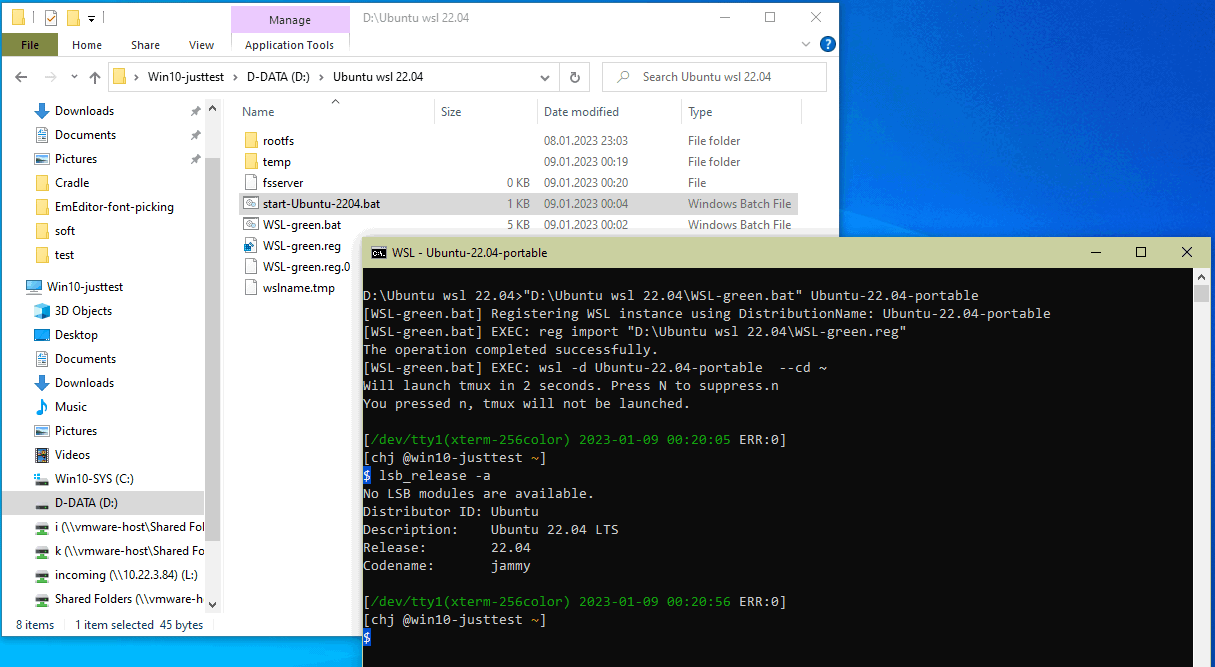
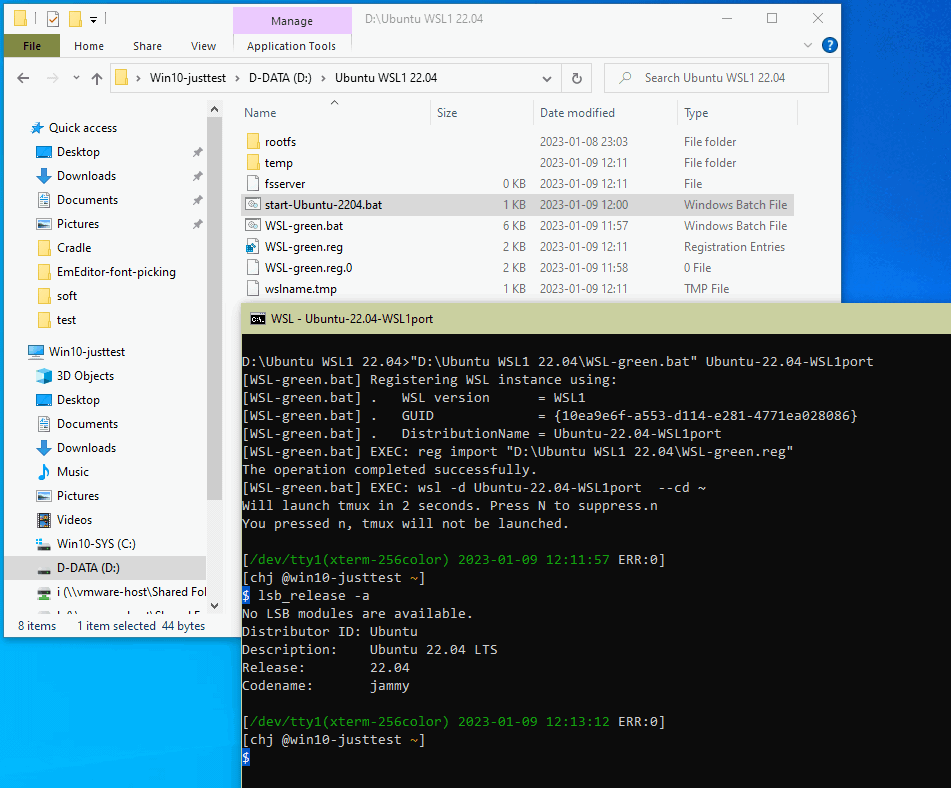
update readme

diff --git a/cmd-batch/WSL-green/README.md b/cmd-batch/WSL-green/README.md
@@ -1,27 +1,33 @@
-## A bat file to live-register your WSL1 instance into Windows 10.
+## A bat file to live-register your WSL instance into Windows 10.
 
-`WSL-green.bat` here registers the WSL1 file-system at current directory into your 
+`WSL-green.bat` here registers the WSL file-system at current directory into your 
 Windows 10 system, so that you can use `wsl -d FoobarDistributionName` to run it. 
 
-This makes your WSL1 instance become totally **portable**, that is, no longer 
-need to install it from Microsoft Store every time you move/copy your WSL1 folder 
+This makes your WSL instance become totally **portable**, that is, no longer 
+need to install it from Microsoft Store every time you move/copy your WSL folder 
 to a new windows 10 machine.
 
 ## How to use
 
 ### [STEP 1] 
 
-You need to first have an already installed WSL1 file-system in an NTFS folder.
+You need to first have an already installed WSL1 or WSL2 file-system in an NTFS folder.
 
-Assume that folder is `D:\WSL-Ubuntu-2204`, that is, you have these sub-folders:
+Assume that folder is `D:\WSL-Ubuntu-2204`, and 
+
+if it contains WSL1, you have these sub-folders:
 
 	D:\WSL-Ubuntu-2204\rootfs
 	D:\WSL-Ubuntu-2204\rootfs\root
 	D:\WSL-Ubuntu-2204\rootfs\etc\init.d
-	
+
+If it contains WSL2, you have a single file:
+
+	D:\WSL-Ubuntu-2204\ext4.vhd
+
 ### [STEP 2]
 
-Copy files here to your WSL1 folder, that is you should finally have:
+Copy files here to your WSL folder, that is, you should finally have:
 
 	D:\WSL-Ubuntu-2204\WSL-green.reg.0
 	D:\WSL-Ubuntu-2204\WSL-green.bat
@@ -45,7 +51,7 @@ Note:
   If you omit this parameter, the default is either told by the registry item `DefaultUid`
   or `root`.
 
-Now, just run your `start-Ubuntu-2204.bat` and the WSL1 launches.
+Now, just run your `start-Ubuntu-2204.bat` and the WSL instance launches.
 
 ![Live run of a WSL1 instance](live-run.png)!
 
@@ -53,7 +59,7 @@ Now, just run your `start-Ubuntu-2204.bat` and the WSL1 launches.
 
 Inside `WSL-green.bat`, it will use WSL-green.reg.0 as template, generate real 
 WSL-green.reg, and then import that .reg so to live-register 
-your `D:\WSL-Ubuntu-2204` as a new WSL1 instance.
+your `D:\WSL-Ubuntu-2204` as a new WSL instance.
 
 Upon registering done, `wsl -d my_distribution_name` is immediately executed to launch
 that WSL instance.
